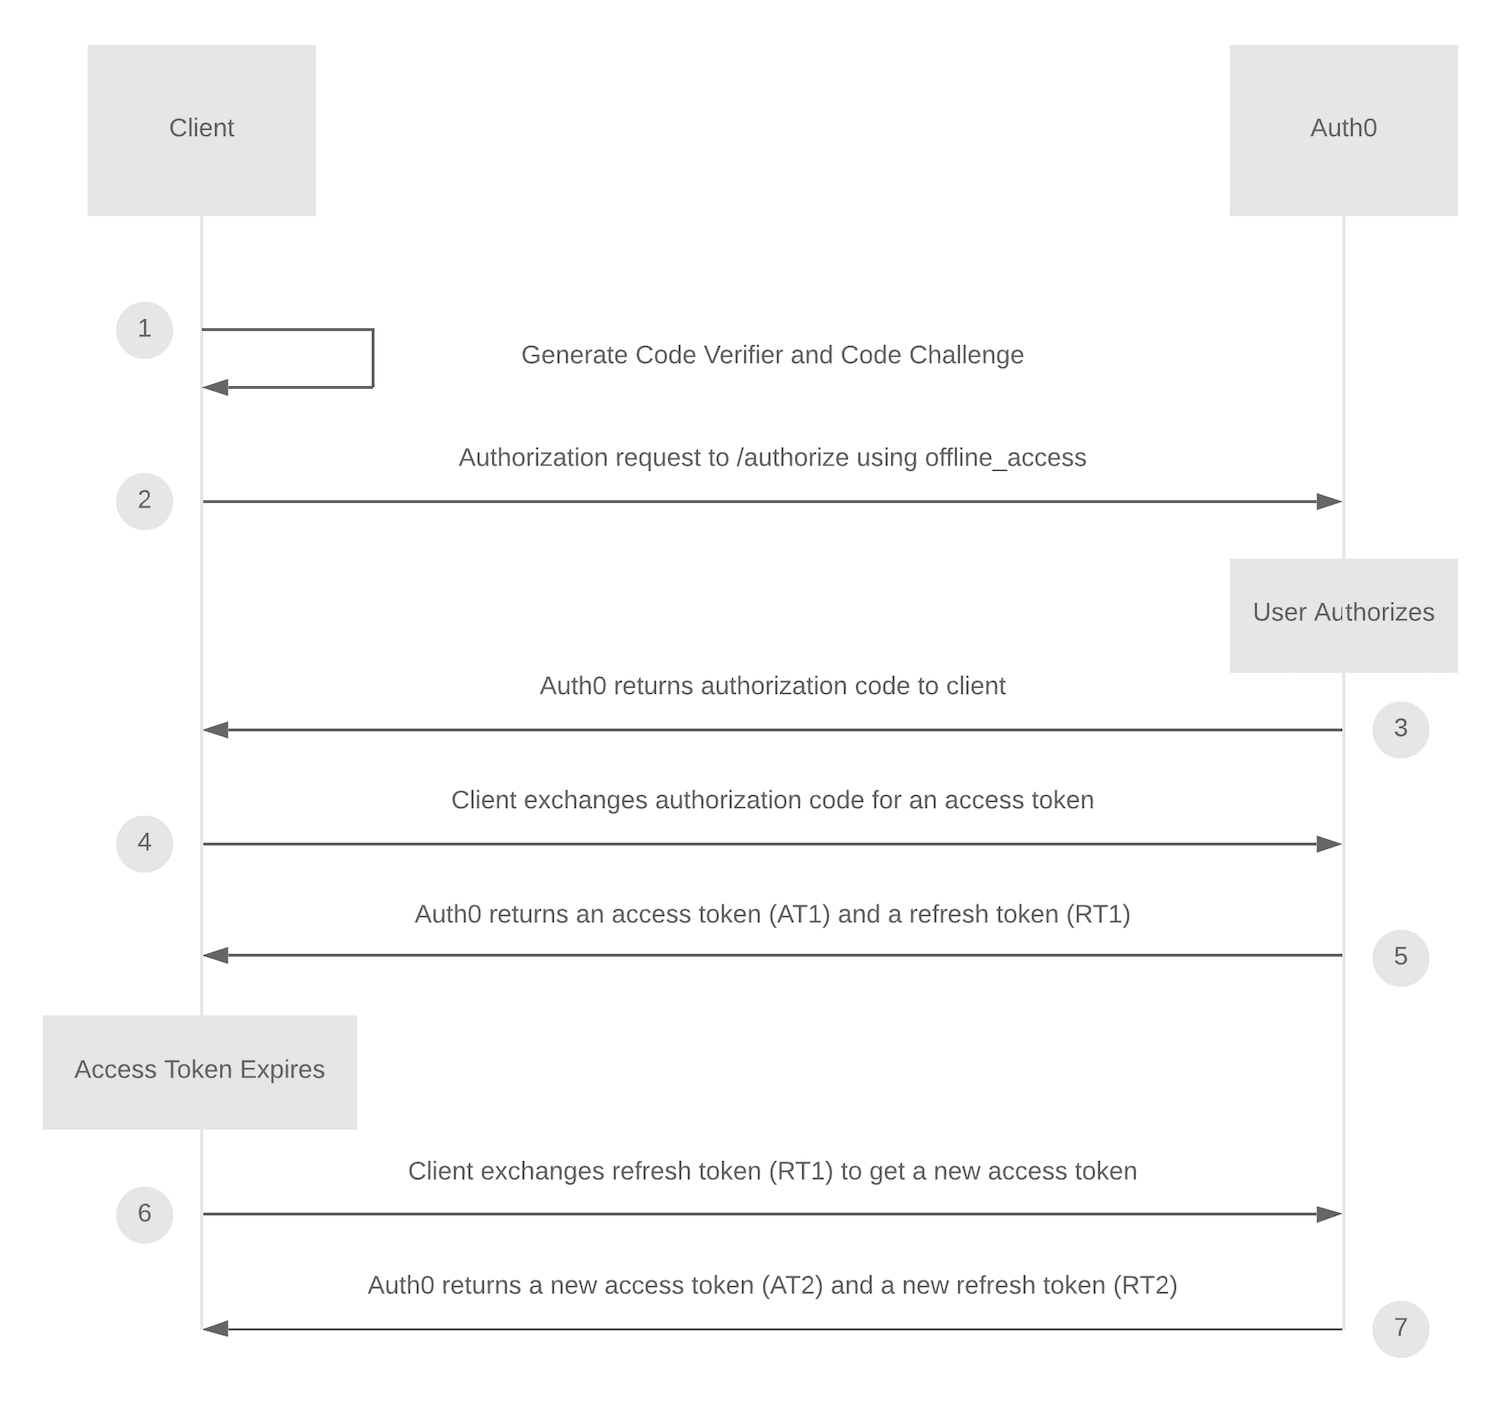
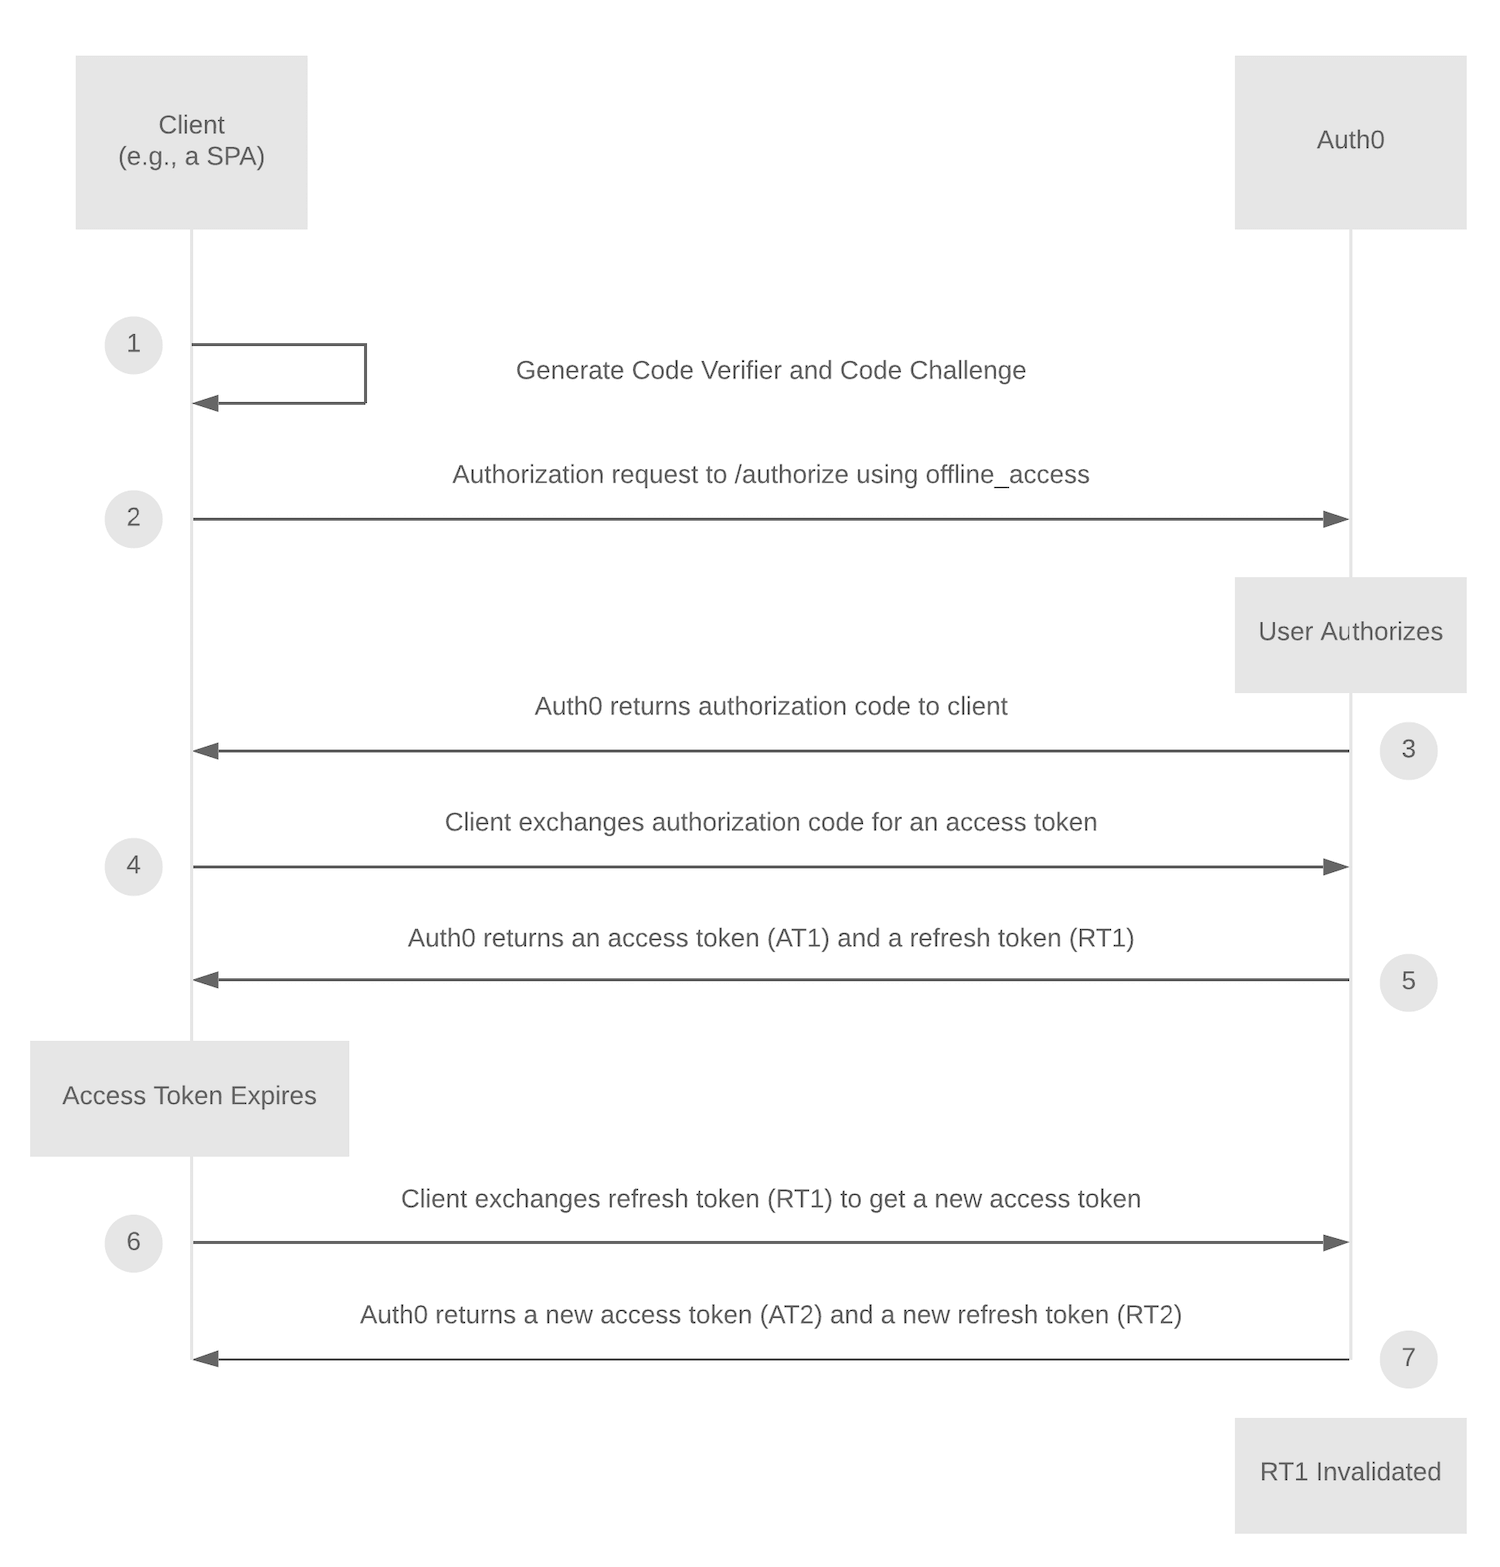
Updated diagram
Updated diagram and steps

diff --git a/articles/tokens/concepts/refresh-token-rotation.md b/articles/tokens/concepts/refresh-token-rotation.md
@@ -39,11 +39,11 @@ Without enforcing sender-constraint, it’s impossible for the authorization ser
 For example, consider the following scenario: 
 1. Legitimate Client has **Refresh Token 1**, and it is leaked to or stolen by Malicious Client. 
 2. Legitimate Client uses **Refresh Token 1** to get a new Refresh Token/Access Token pair.
-Auth0 returns **Refresh Token 2/Access Token 2**.
-3. Malicious Client then attempts to use **Refresh Token 1** to get an Access Token. Auth0 recognizes that Refresh Token 1 is being reused, and immediately invalidates the Refresh Token family, including **Refresh Token 2**.
-4. Auth0 returns an **Access Denied** response to Malicious Client.
-5. **Access Token 2** expires and Legitimate Client attempts to use **Refresh Token 2** to request a new token pair. Auth0 returns an **Access Denied** response to Legitimate Client.
-6. Re-authentication is required.
+3. Auth0 returns **Refresh Token 2/Access Token 2**.
+4. Malicious Client then attempts to use **Refresh Token 1** to get an Access Token. Auth0 recognizes that Refresh Token 1 is being reused, and immediately invalidates the Refresh Token family, including **Refresh Token 2**.
+5. Auth0 returns an **Access Denied** response to Malicious Client.
+6. **Access Token 2** expires and Legitimate Client attempts to use **Refresh Token 2** to request a new token pair. Auth0 returns an **Access Denied** response to Legitimate Client.
+7. Re-authentication is required.
 
 ![Reuse Detection](/media/articles/tokens/reuse-detection.png)
 
